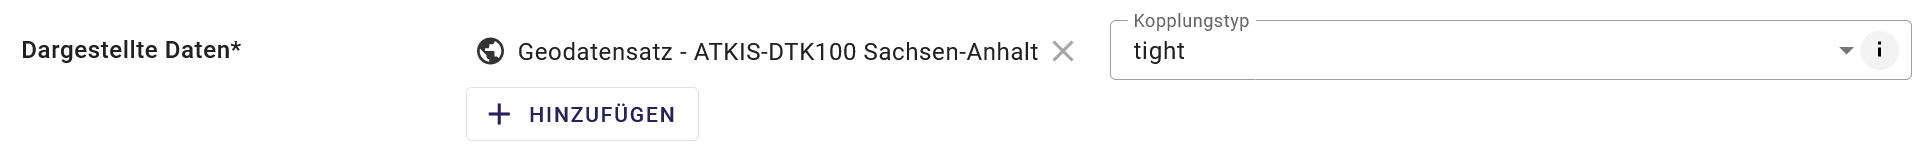
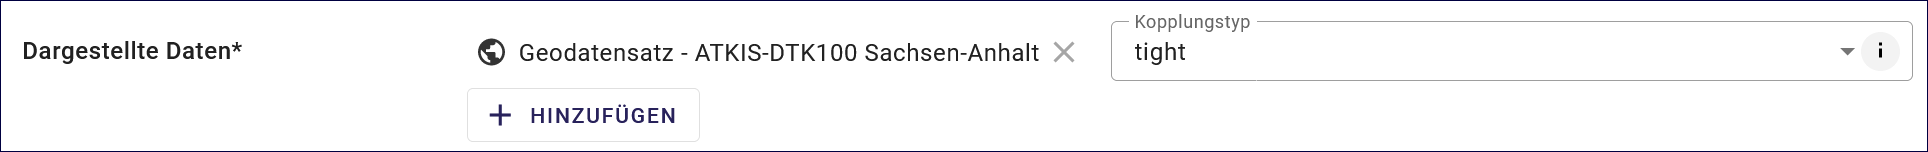
Aktualisierung

diff --git a/docs/ingrid-editor/erfassung/datensatztypen/datensatztyp-geodatendienst.rst b/docs/ingrid-editor/erfassung/datensatztypen/datensatztyp-geodatendienst.rst
@@ -34,7 +34,7 @@ Funktion: Der GetCapabilities-Assistent
 .. figure:: ../../../img/ige/erfassung/ige_metadaten/ige_datensatztypen/datensatztyp_geodatendienst/assistent/getcapabilties-assistent_symbol.png
    :width: 5%
    
-Abb.: GetCapabilitie-Assistent - Symbol (Zauberstab) aus der Symbolleiste
+Abb.: GetCapabilitie-Assistent - Symbol (Zauberstab) in der Symbolleiste
 
 .. seealso:: Hier wird die Erfassung von Metadaten mit dem `GetCapabilities-Assistent <https://metaver-bedienungsanleitung.readthedocs.io/de/igeng/ingrid-editor/erfassung/datensatztypen/erfassungsassistent/getcapabilitie-assistent.html>`_  beschrieben.
 
@@ -205,6 +205,7 @@ Felder für Dargestellte Daten
 """""""""""""""""""""""""""""
 
 .. figure:: ../../../img/ige/erfassung/ige_metadaten/ige_datensatztypen/datensatztyp_geodatendienst/fachbezug_dargestellte-daten.png
+   :width: 100%
 
 Abb.: Felder für Dargestellte Daten
 
@@ -246,6 +247,7 @@ Feld: Konformität
 """""""""""""""""
 
 .. figure:: ../../../img/ige/erfassung/ige_metadaten/ige_datensatztypen/datensatztyp_geodatendienst/zusatzinformation_konformitaet.png
+   :width: 100%
 
 Abb.: Konformität
 
